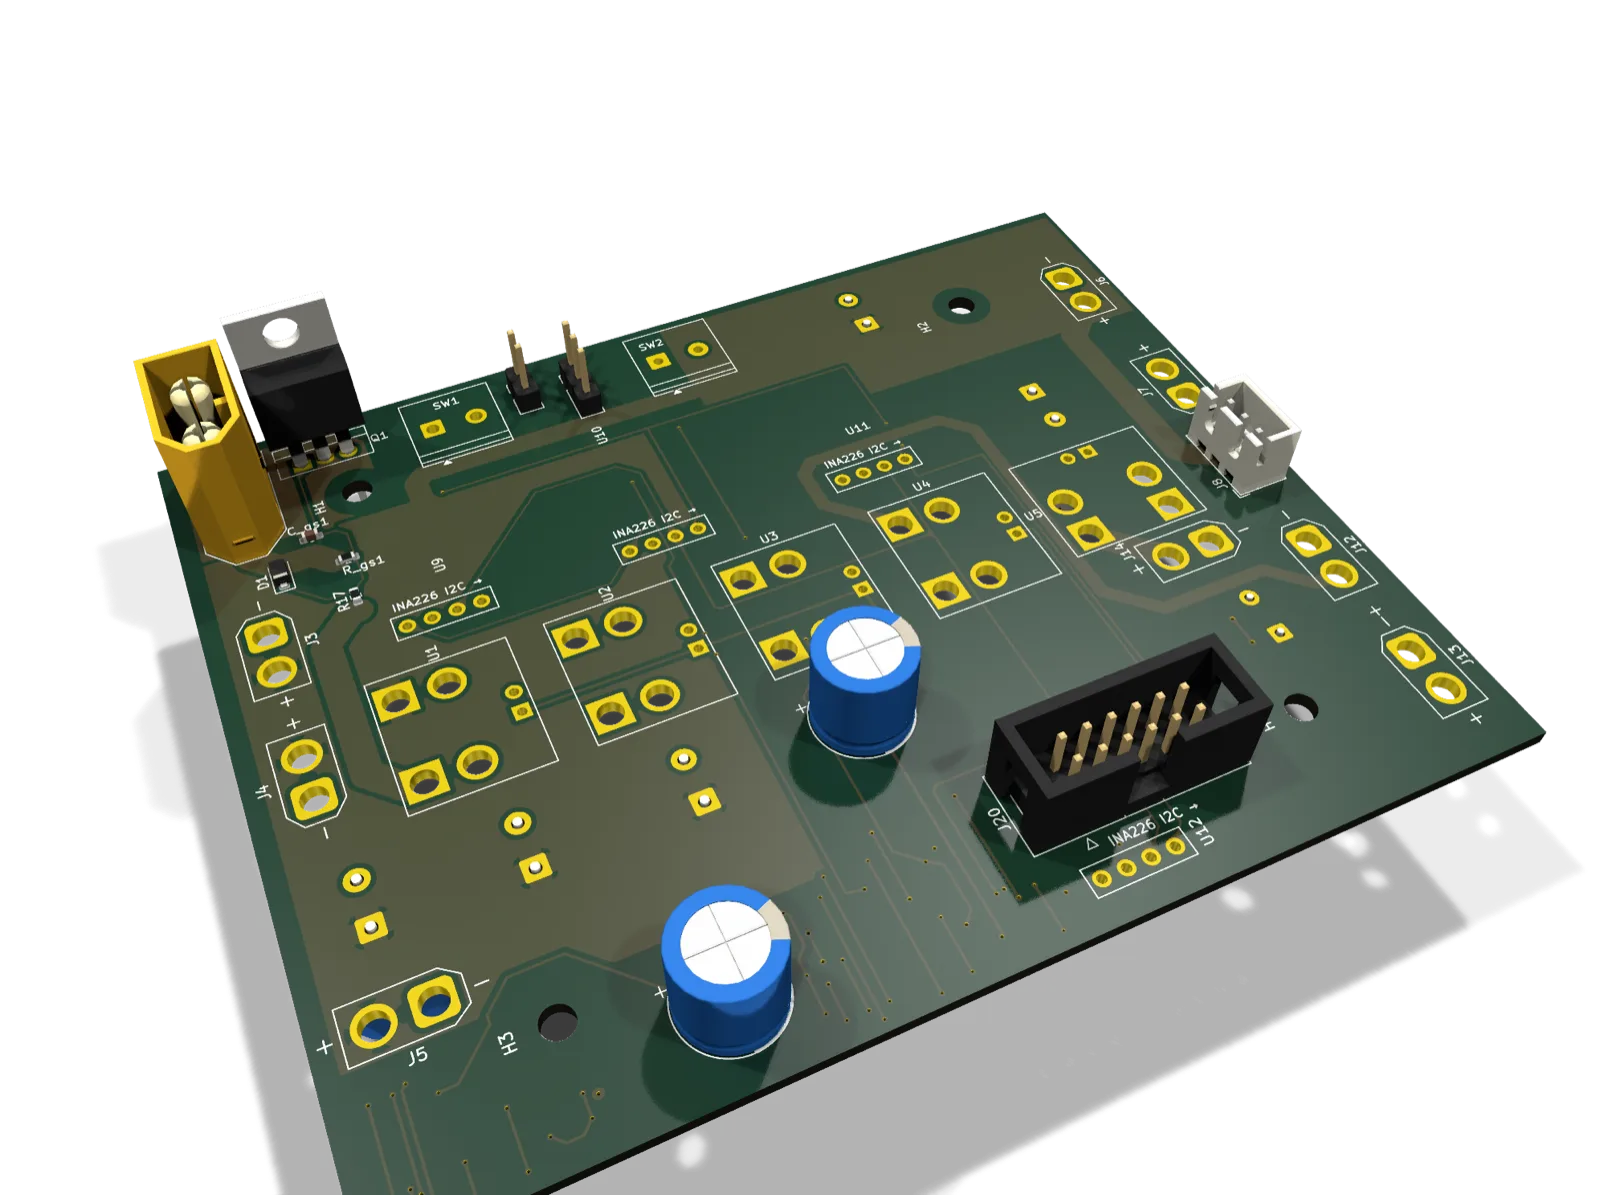
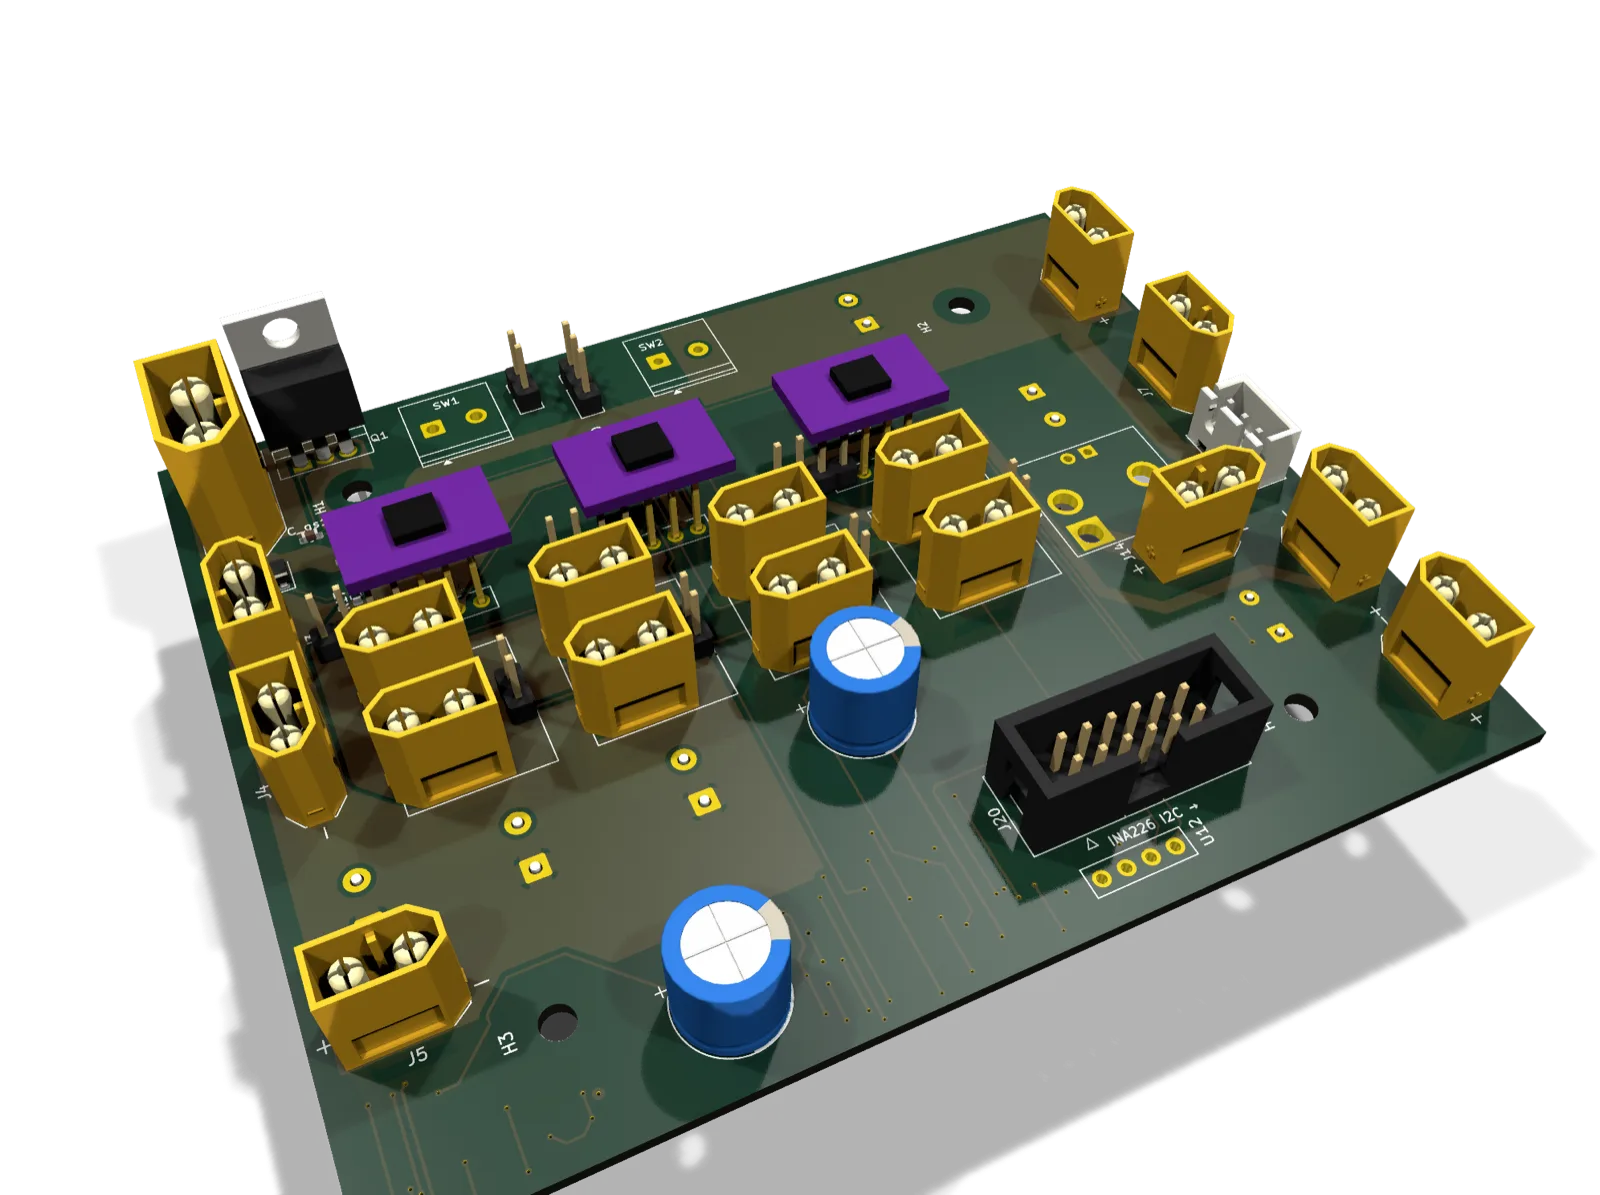
feat: populated-board PCB renders (3D models wired into KiCad files)
Teensy 4.1, Arduino Nano, and INA226 modules now render via WRL models
added to the NOVA board files; XT30s use the XT60 STEP scaled to the
5.0mm pin pitch (KiCad 9 ships no XT30 model).

Claude-Session: https://claude.ai/code/session_01MtwTLgLzopKTkhFUrCMxJz

diff --git a/index.html b/index.html
@@ -167,7 +167,7 @@
       </figure>
       <figure class="pcbshot">
         <img src="assets/pcb-logic.webp" alt="KiCad 3D render of the Fennec logic board, a Teensy 4.1 carrier" loading="lazy">
-        <figcaption class="caption">▸ Logic board (KiCad render) — Teensy 4.1 bus-master carrier: harness breakouts and the IDC telemetry link to the power board.</figcaption>
+        <figcaption class="caption">▸ Logic board (KiCad render) — Teensy 4.1 bus-master + aux-MCU slot, harness breakouts, and the IDC telemetry link to the power board.</figcaption>
       </figure>
     </div>
 